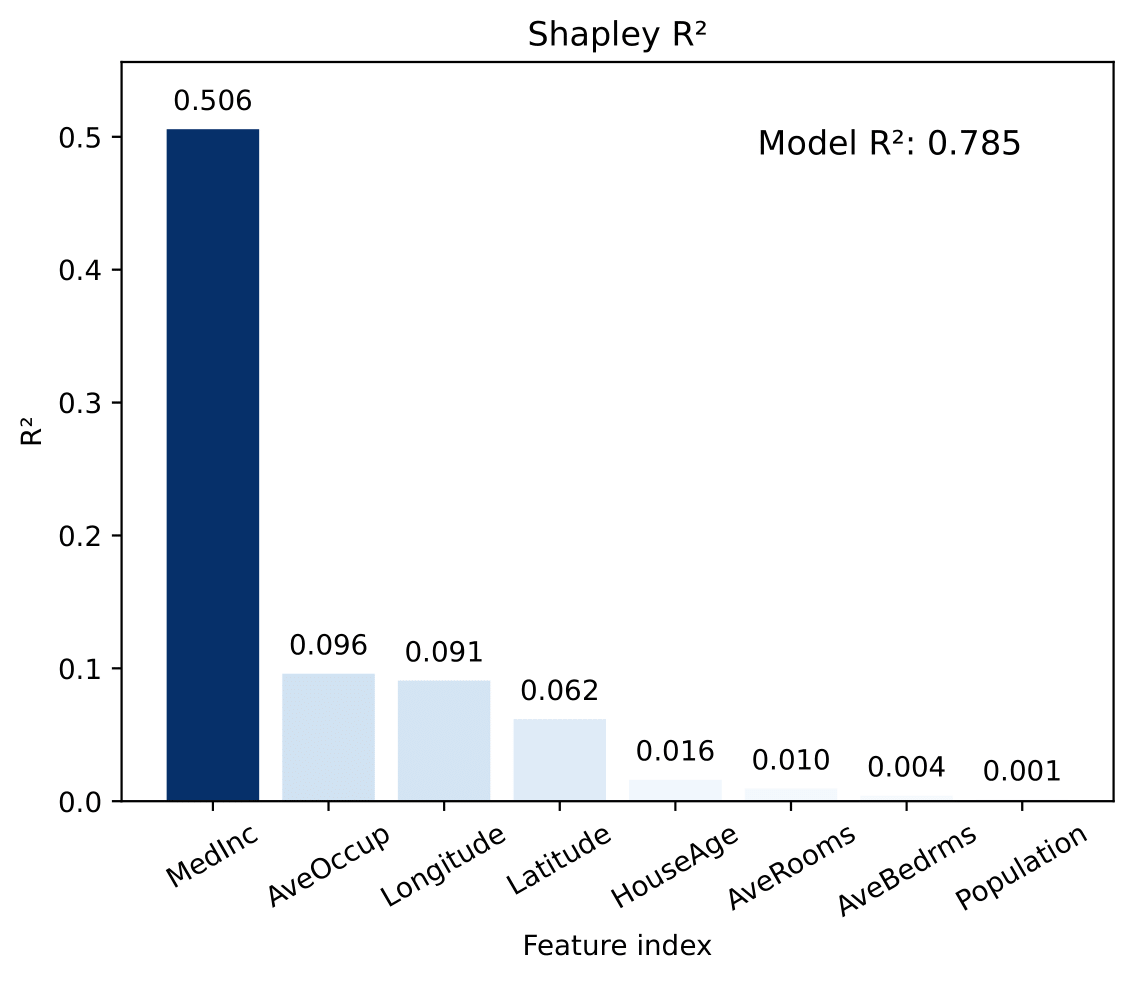
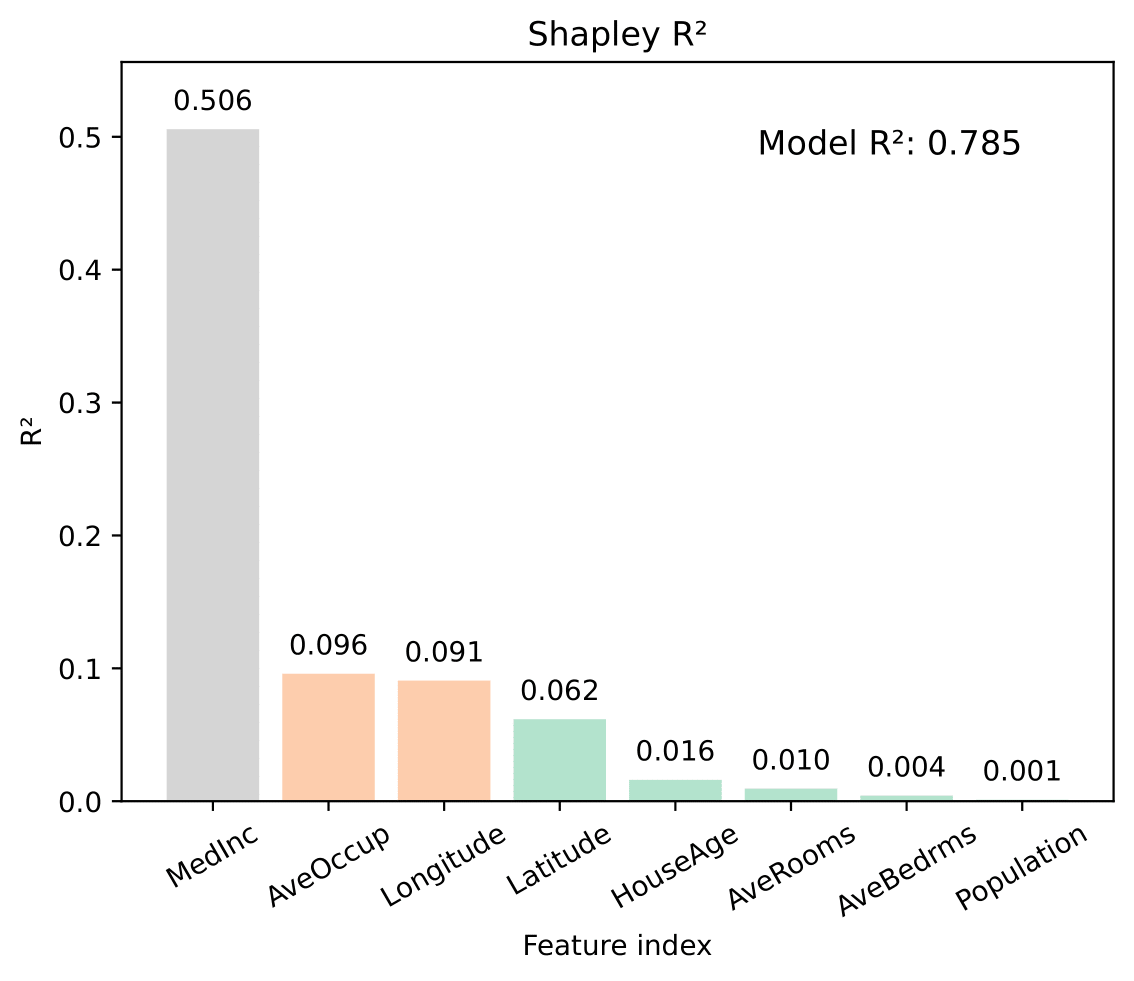
Readne

Changed region(s): [[0.1235, 0.1223, 0.7407, 0.8257], [0.7716, 0.7951, 0.8333, 0.8257]]

diff --git a/README.md b/README.md
@@ -34,7 +34,7 @@ gazer_rsq = gazer(model)
 phi_rsq = gazer.rsq(gazer_rsq, x, y, nfrac = 0.05, random_state=42)
 
 # Visualize top values of feature-specific R^2
-vis.rsq(phi_rsq, label=np.array(feature_names), rotation=30, save_name="cal_housing")
+vis.rsq(phi_rsq, label=np.array(feature_names), rotation=30, save_name="cal_housing", color_map_name="Pastel2")
 ```
 
 <p align="center">
